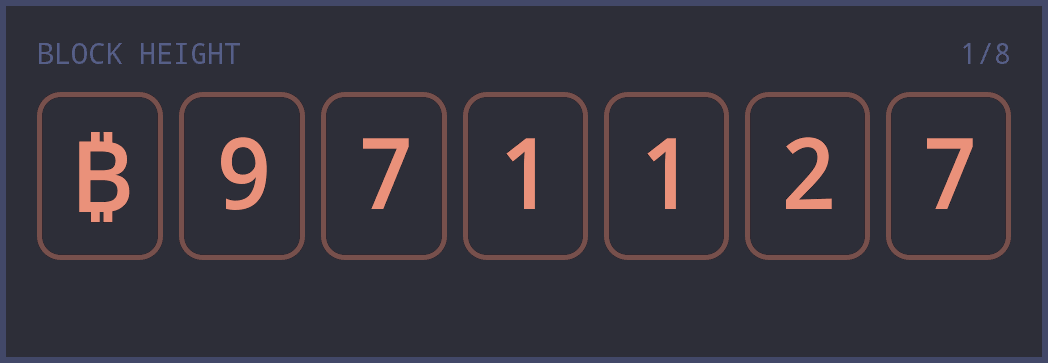
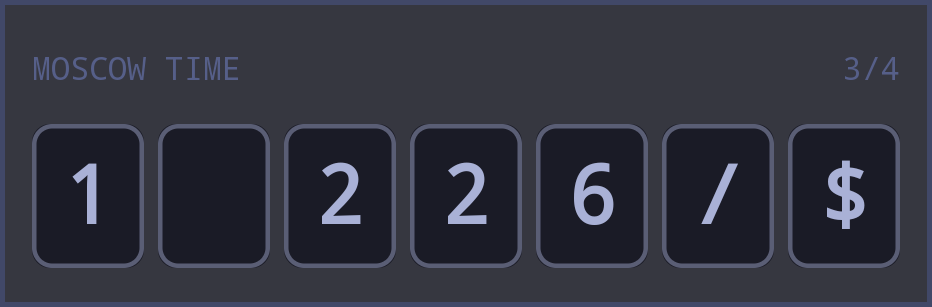
Update lukedca/btclock to 1.3: full fee triple, tap the panels to change face, 15s rotation (#137)
btclock 1.3 shows the full economy/half-hour/fastest fee triple, moves to the next field when you tap the panels, and opens the full-screen fields/config view from the header row. Fields now rotate every 15 seconds instead of 20.

Changed region(s): [[0.0311, 0.1173, 0.9646, 0.8795]]

diff --git a/widgets/lukedca/btclock/README.md b/widgets/lukedca/btclock/README.md
@@ -1,0 +1,19 @@
+# btcclock
+
+Live Bitcoin network data as BTClock-style e-paper panels: block height, price, Moscow time, fees, halving and supply. Data comes from mempool.space's public API.
+
+## Using it
+
+The tile rotates through the fields you enable every 15 seconds. Tap the large e-paper panels to switch to the next field, and tap the header row (the label and the `n/total` counter) to open the full-screen view.
+
+In the full-screen view, the **fields** tab lists the fields that have loaded, and the **config** tab turns fields on or off and reorders the ones that are on. The order is saved on the device.
+
+## Update notes — 1.3
+
+- The fees field now shows all three rates (economy / half-hour / fastest, e.g. `1/1/1`) instead of only the half-hour fee.
+- One press on the panels switches to the next field; the header row opens the full-screen fields/config view. A widget can't capture a long press — the home screen uses it to move and resize tiles — so the top bar is the way into the menu.
+- Field rotation is now every 15 seconds (was 20).
+
+## Source
+
+- [mempool.space API](https://mempool.space/docs/api/rest)
